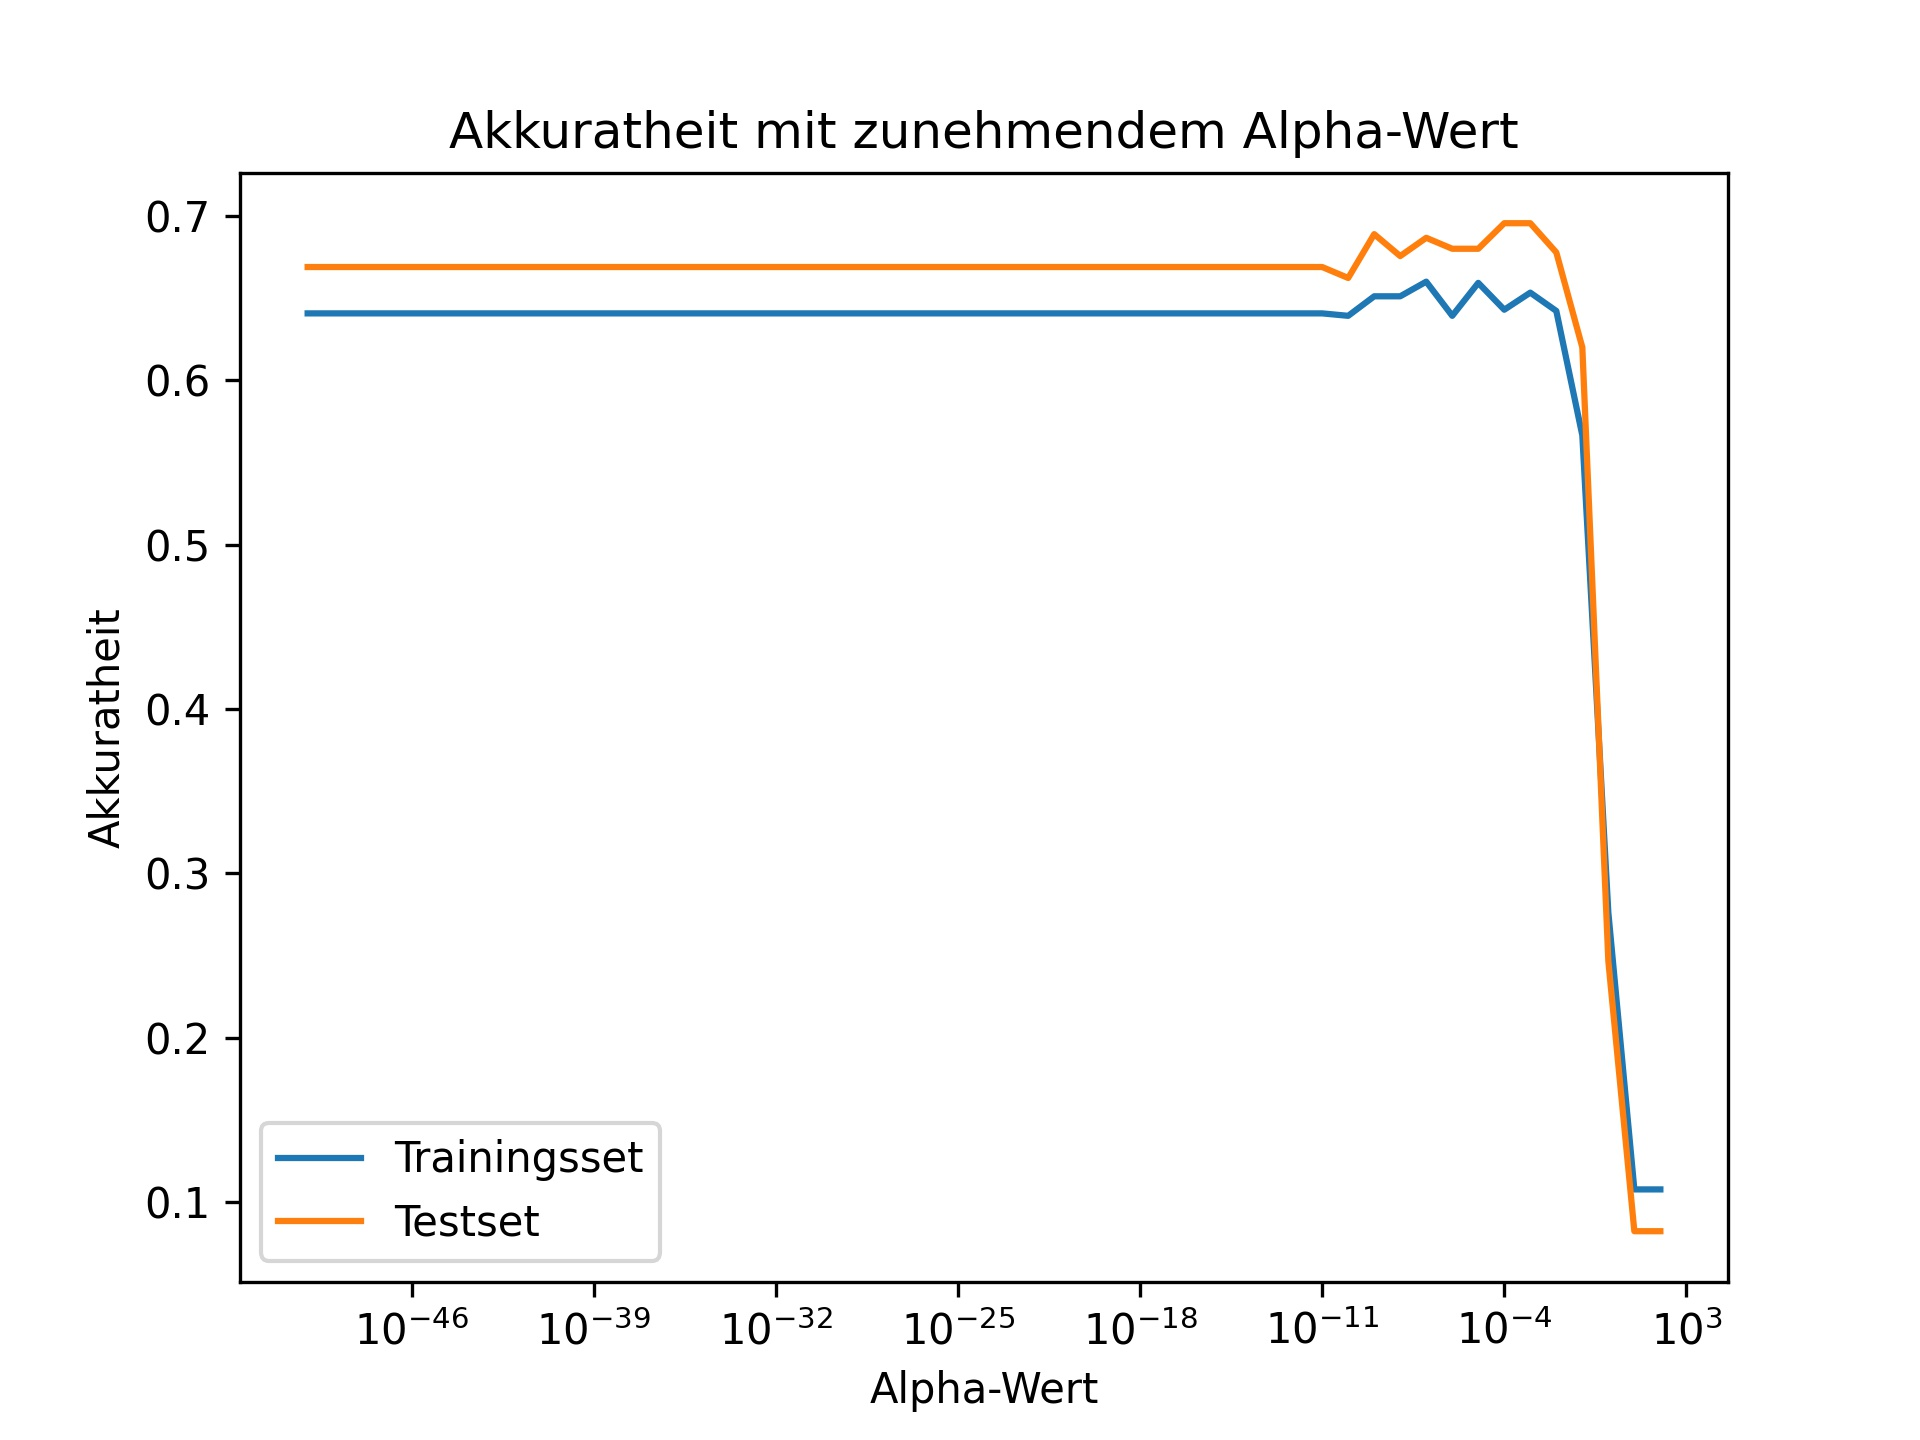
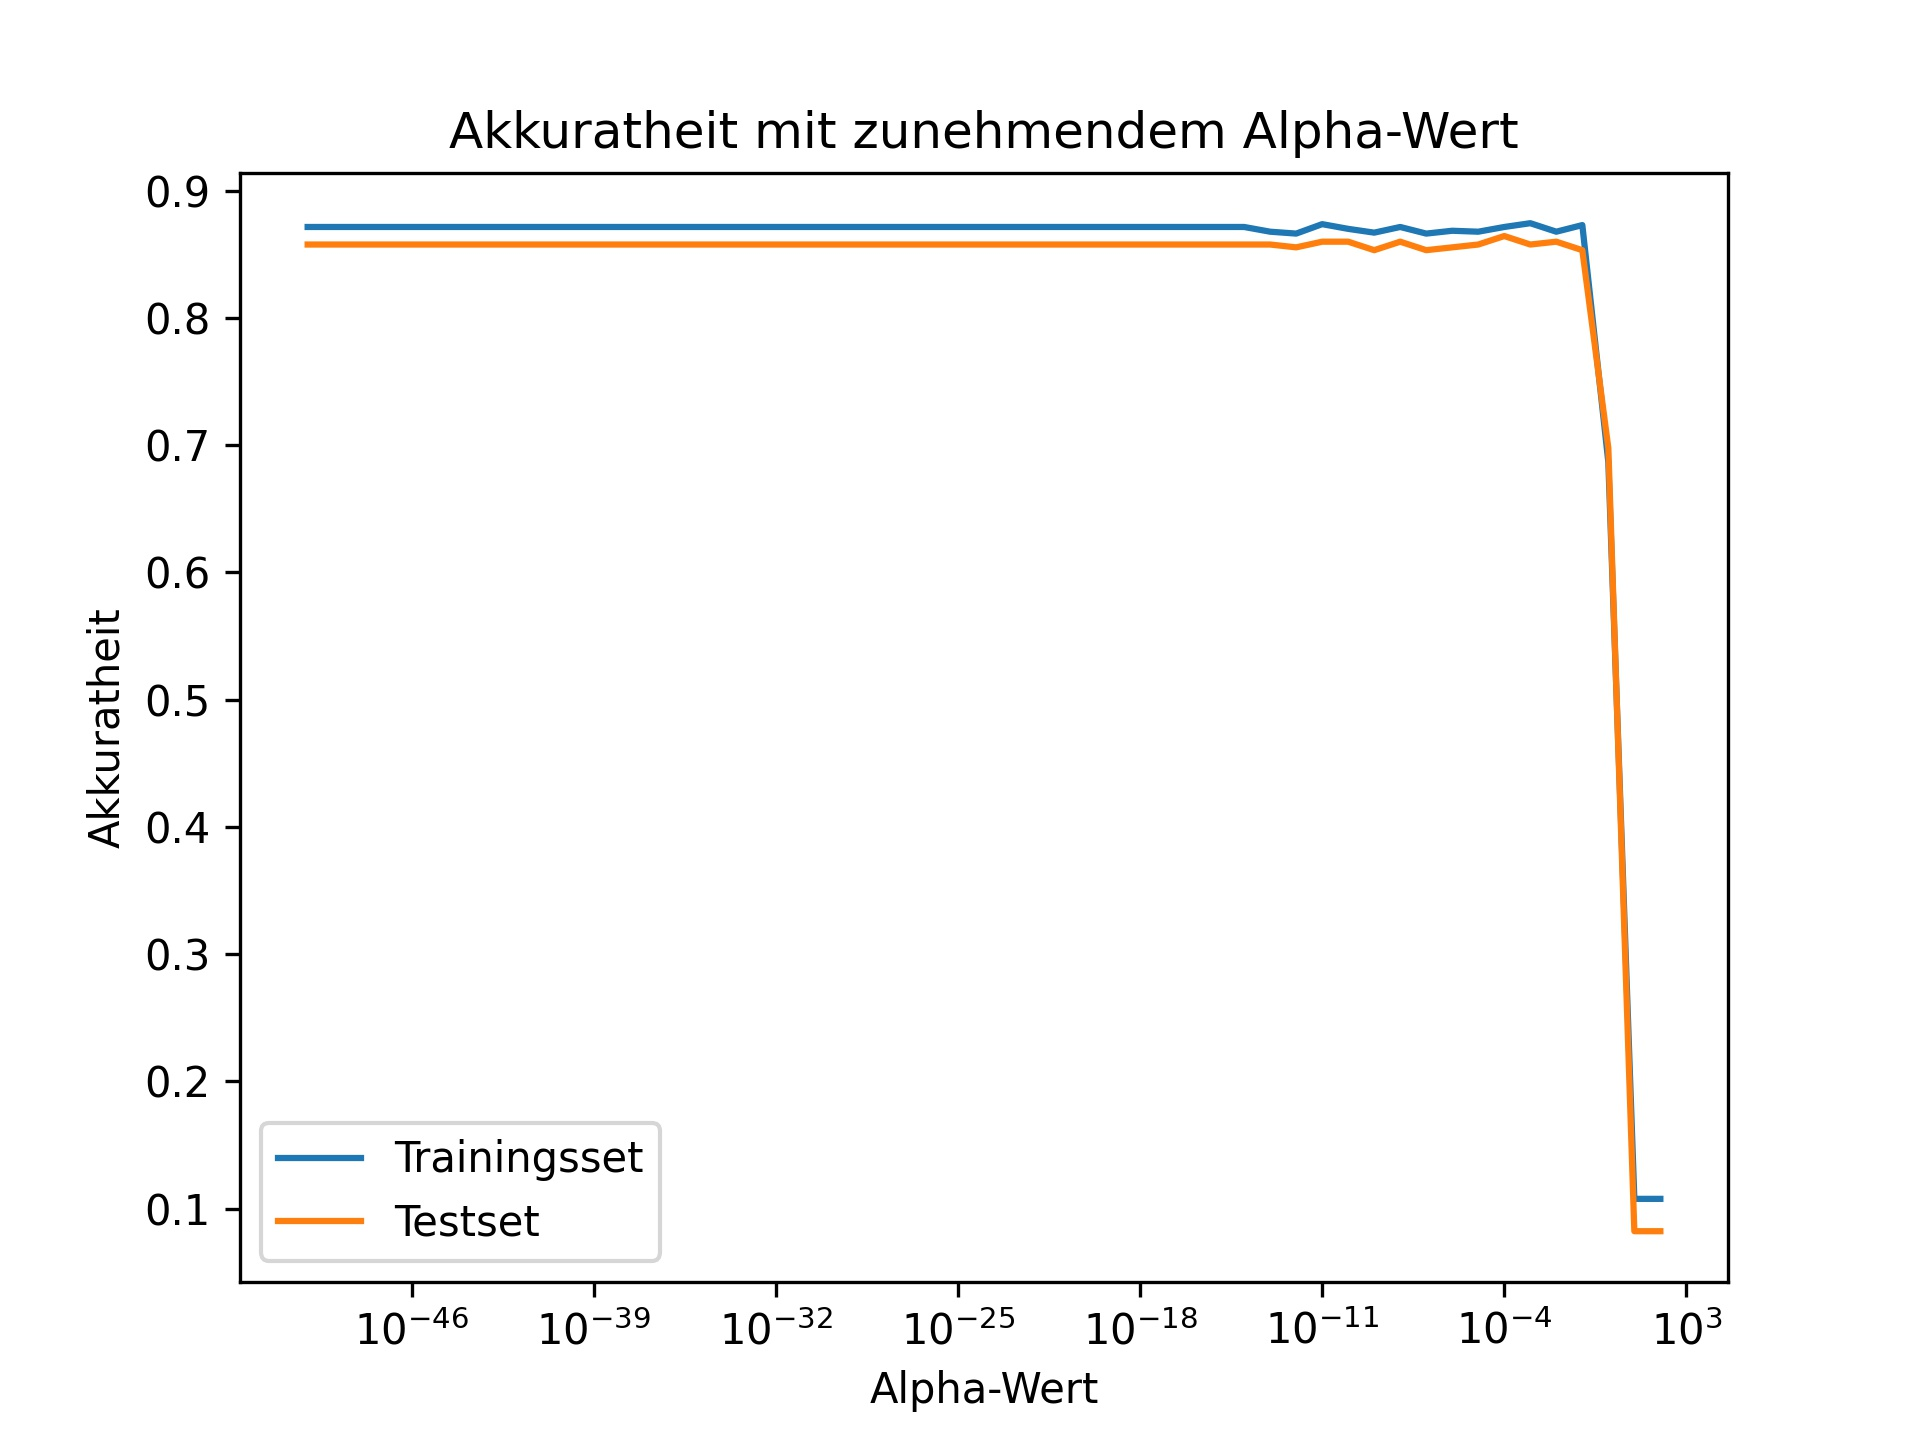
Use 5 Nodes for Alpha Statistics

diff --git a/ocr-alpha.py b/ocr-alpha.py
@@ -15,7 +15,7 @@ alpha_axis = []
 
 alpha = 100
 while(alpha > 1e-50):
-    mlp = MLPClassifier(hidden_layer_sizes=(20, 6), max_iter=100, alpha=alpha, solver='sgd', tol=1e-4, random_state=1, learning_rate_init=.1)
+    mlp = MLPClassifier(hidden_layer_sizes=(20, 5), max_iter=100, alpha=alpha, solver='sgd', tol=1e-4, random_state=1, learning_rate_init=.1)
     mlp.fit(X_train, y_train)
     alpha_axis.append(alpha)
     score_trainingset.append(mlp.score(X_train, y_train))
